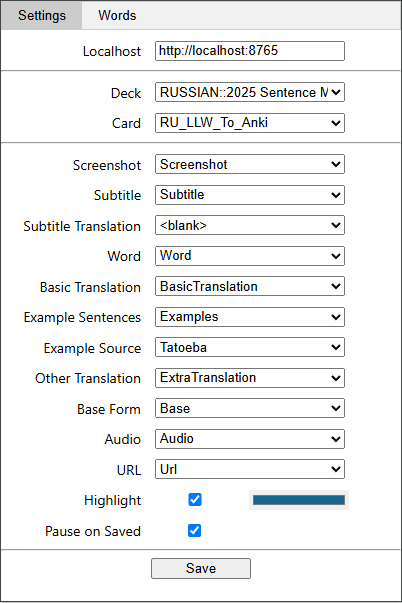
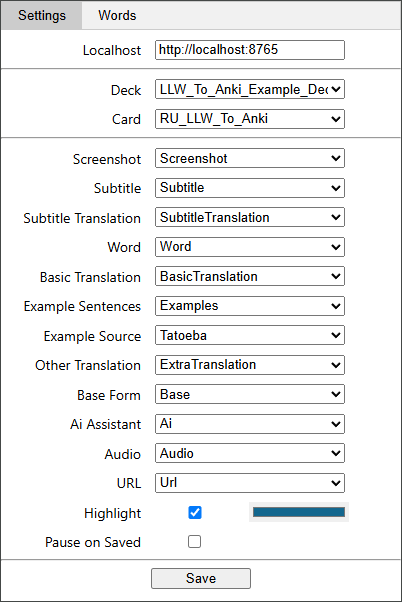
updated README

Changed region(s): [[0.0, 0.0598, 1.0, 1.0]]

diff --git a/README.md b/README.md
@@ -11,26 +11,29 @@ Language Reactor can be found here:
 ## Setup
 
 1) Must install the [AnkiConnect](https://ankiweb.net/shared/info/2055492159) plugin.
-2) Download the extension source code (Blue "code" button then "Download Zip").
-    - Unzip the download, to have a folder called "Language-Learning-With-Anki-master", this is the extension source code
+2) Download the extension source code: 
+    - Blue "code" button then "Download Zip".
+    - Unzip the download, to have a folder called "Language-Learning-With-Anki-master", this is the extension source code.
 3) Install the unpacked `Language-Learning-With-Anki` extension.
-    - Open a new chrome tab and go to : chrome://extensions/
-    - In the top right, toggle ON the "Developer mode"
+    - Open a new chrome tab and go to : <chrome://extensions/>
+    - In the top right, toggle ON the "Developer mode".
     - Click "Load Unpacked" and navigate to where the "Language-Learning-With-Anki-master" folder is, and choose that folder.
 4) Setup the URL (default is `http://localhost:8765`), deck and model values, making sure the top field of your note type has a [valid field](#empty-note-error) value.
 5) You **must** leave the Anki desktop application open in order for the extension to communicate with Ankiconnect.
 
 ## Usage
 
-Click a word to bring up the definition popup.
-Clicking the Anki button will send the current word and definition straight to Anki.
-The "RC" option, will remove the colour from the selected word
+Click a word to bring up the definition popup. Clicking the Anki button will gather the relevant data and send it to Anki. To change what data is collected, click the extension icon to show the settings page.
 
-If the highlight word option is turned on then all words sent to Anki will be saved and highlighted, with this setting turned off, words will not be saved so will not be highlighted if turned back on. 
+The "RC" option will remove the currently selected word from the list of saved words (can be viewed in the settings page). Everytime a word is clicked and sent to Anki it is saved in a list of words, this is to be used for highlighting purposes. Words can be removed in the settings and with the use of the "RC" button.
 
-When using the audio field, the extension will replay the subtitle again to collect the audio. Let the video play and wait for the success popup before doing anything else, interupting the playblack may cause a half finished audio track. Subsequent cards made with the same subtitle, but the audio will not need to be re-recorded.
+Regardless of whether the highlighting words option is turned on or off, words used to create cards will be saved in the words list within the settings page.
 
-![bubble-screenshot](https://raw.githubusercontent.com/ClearlyKyle/Language-Learning-With-Anki/master/screenshots/popup.PNG)
+When using the audio field, the extension will replay the subtitle again to collect the audio. Let the video play and wait for the success popup before doing anything else, interrupting the playback may cause a half finished audio track. Subsequent cards made with the same subtitle will not require the audio to be re-record. If an issue occurs with the audio and you wish to re-record it for the current subtitle, use the "RA" button to remove the saved audio file and try making the card again.
+
+The ai field will be filled with whatever Ai mode you have currently selected (Explain, Examples, Grammar).
+
+![bubble-screenshot](screenshots/fields.PNG)
 
 ## Settings
 
@@ -40,23 +43,27 @@ Exported data fields:
  2) `Subtitle` - the current subtitle visible on screen
  3) `Subtitle Translation` - this is the translated subtitle when using the 'Show machine translation' option
  4) `Word` - selected word in the subtitle
- 5) `Basic Translation` - the transaltion of the selected word
- 6) `Example Sentences` - examaples bellow the definitons in the popup, either from current video or Tatoeba
+ 5) `Basic Translation` - the translation of the selected word
+ 6) `Example Sentences` - examples below the definitions in the popup, either from the current video or Tatoeba
  7) `Example Source`  - Tatoeba or Current video
  8) `Other Translation` - the extra translations of the word, formatted in HTML
- 9) `Audio` - audio for the current subtitle (limited to 16s)
- 9) `URL` - URL of current video with the current timestamp
- 10) `Highlight` - toggle wether to highlight words exported to Anki in the choosen colour
+ 9) `Base Form` - "dictionary" form of the word, without declensions
+ 10) `Ai` - save the text output from the Ai assistant
+ 11) `Audio` - audio for the current subtitle (limited to 16s)
+ 12) `URL` - URL of current video with the current timestamp
+ 13) `Highlight` - toggle whether to highlight words exported to Anki in the chosen colour
+ 14) `Pause on Saved` - auto pause the subtitle if it contains a word you have made an Anki card for
 
-Settings allow you to choose which fields are filled with what data. A blank options means that data is skipped
+Settings allow you to choose which fields are filled with what data. A `<blank>` options means that data is skipped
 
-![options-screenshot](https://raw.githubusercontent.com/ClearlyKyle/Language-Learning-With-Anki/master/screenshots/settings.png)
+![options-screenshot](/screenshots/settings.png)
+![options-screenshot](/screenshots/words.png)
 
-## Poissible Errors
+## Possible Errors
 
-- `Acess to fetch at 'http://localhost:8765' from origin 'https://www.netflix.com' has been blocked by CORS policy`
+- `Access to fetch at 'http://localhost:8765' from origin 'https://www.netflix.com' has been blocked by CORS policy`
 
-You need to make sure Netflix and Youtube are add to the "webCorsOriginList" in your AnkiConnect config. To do this, go to:
+You need to make sure Netflix and Youtube are added to the "webCorsOriginList" in your AnkiConnect config. To do this, go to:
 
 `Anki > tools > Add-ons > AnkiConnect > config`
 
@@ -71,4 +78,4 @@ Example of "webCorsOriginList"
 
 - `cannot create note because it is empty`<a id="empty-note-error"></a>
 
-Make sure the field at position 1 in your Anki note type (Tools > Manage Note Types) is set to a value in the extentions settings page, if not, then you will get this error. See [also](https://github.com/ClearlyKyle/Language-Learning-With-Anki/issues/7#issuecomment-2510020695)
+Make sure the field at position 1 in your Anki note type (Tools > Manage Note Types) is set to a value in the extensions settings page, if not, then you will get this error. See [also](https://github.com/ClearlyKyle/Language-Learning-With-Anki/issues/7#issuecomment-2510020695)
